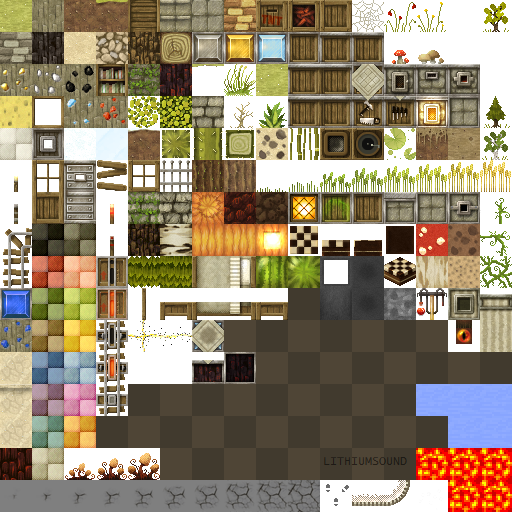
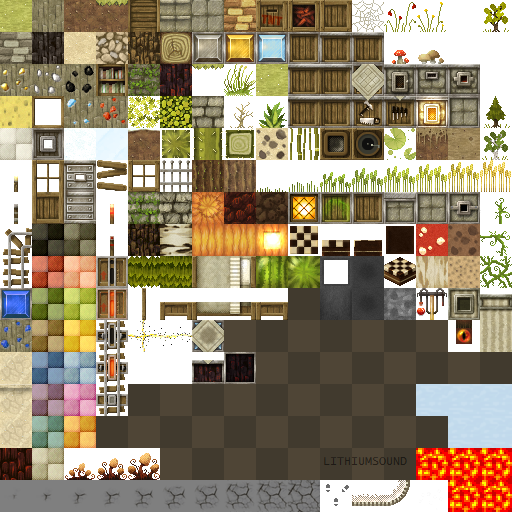
v1.4

diff --git a/README.md b/README.md
@@ -9,6 +9,9 @@ http://www.minecraftforum.net/viewtopic.php?t=136785
 http://www.minecraft.net
 
 
+29/10/11 :
+All the GUI is now finished ! New moon, new sun...
+
 07/10/11 :
 All 1.9.3 items & blocks, 3 new mobs : Skeleton, spider & cave spider !
 
